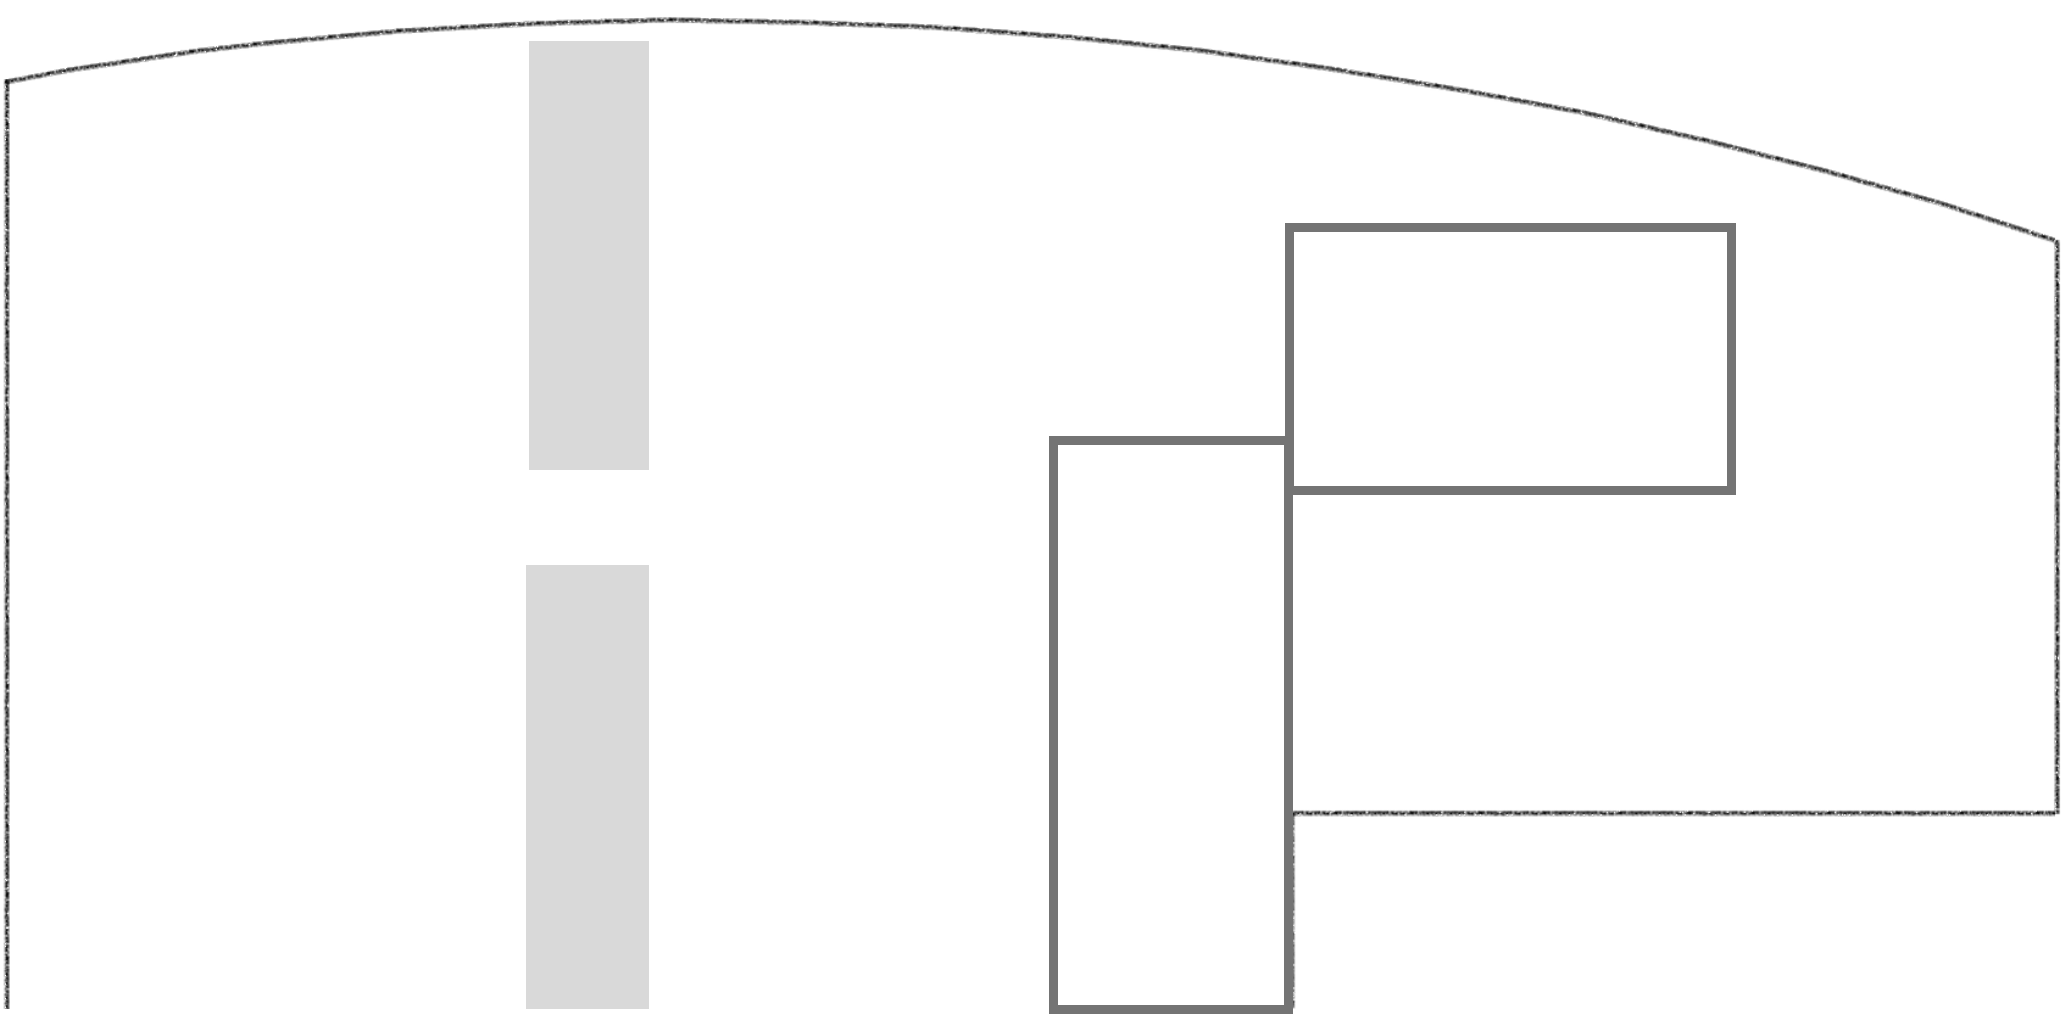
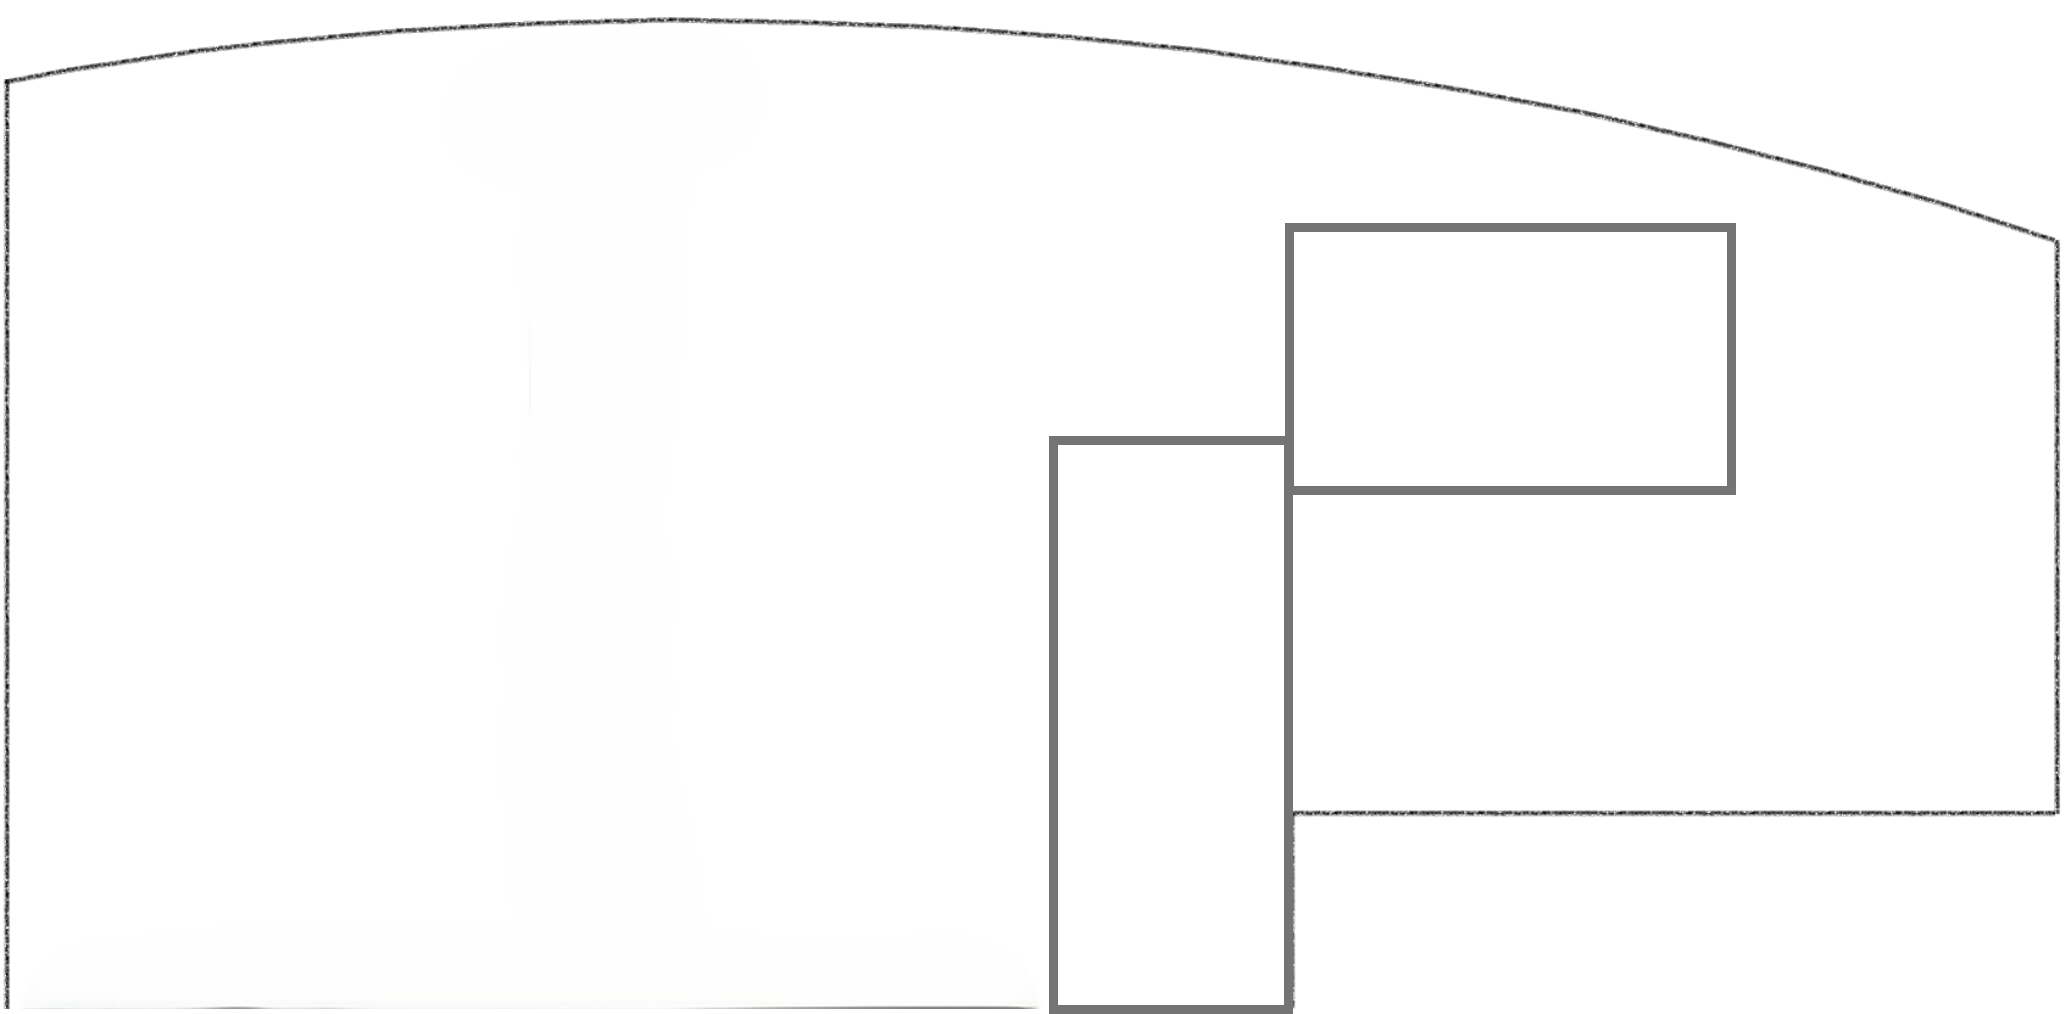
浜松フリー座席アップデート

Changed region(s): [[0.2472, 0.5503, 0.3399, 1.0], [0.2472, 0.0306, 0.3399, 0.4892], [0.3708, 0.9783, 0.4944, 1.0]]

diff --git a/work-app/src/App.js b/work-app/src/App.js
@@ -133,13 +133,18 @@ const FetchData = () => {
   const his_dialog = document.querySelector("#his_dialog");
   const singleClick = async (sect,n) => {
     try {
-      console.log("シングルクリック!",n,sect);
+      console.log("シングルクリック!",n,sect,kintaiData[n].name.DisplayName);
+      if (kintaiData[n].name === "None"){
+        console.log("無効カード")
+        return
+      }
       var purl = backendURL + "history";
       const response = await fetch(purl,{
         method: "POST",
         headers:{'Content-Type': 'application/json'},
         body: JSON.stringify({name: kintaiData[n].name.DisplayName,sect:sect})
       });
+      
       const data = await response.json();
       console.log(data)
       console.log(kintaiData[n].name.DisplayName)
@@ -290,10 +295,10 @@ const FetchData = () => {
               </SwiperSlide>
               <SwiperSlide>
                 <div className="kintaiCardHeaderContainer">
-                <h3 className="header">{team}課 (金沢・仙台)</h3>
+                <h3 className="header">{team}課 (金沢)</h3>
                 <h3 className="header">1係</h3>
                 <h3 className="header">2係</h3>
-                <h3 className="header">3係 (仙台)</h3>
+                <h3 className="header">3係</h3>
                 <h3 className="header">4係</h3>
                 <h3 className="header">5係</h3>
                 </div>
@@ -304,15 +309,16 @@ const FetchData = () => {
                 </div>
               </SwiperSlide>
               <SwiperSlide>
-                <div className="kintaiCardHeaderContainer">
+                <div className="kintaiCardHeaderContainerJ">
                 <h3 className="header">{team}課 (浜松)</h3>
                 <h3 className="header">1係</h3>
                 <h3 className="header">2係</h3>
                 <h3 className="header">3係</h3>
                 <h3 className="header">4係</h3>
                 <h3 className="header">5係</h3>
+                <h3 className="header">ITS事業推進室2課</h3>
                 </div>
-                <div className="kintaiCardContainer">
+                <div className="kintaiCardContainerJ">
                 {kintaiData.map((kintai,i) => {
                   return <button className="button"  onClick={() => onDClick("34",i)} key={i}><Card kintai={kintai} /> </button>;
                 })}
@@ -350,11 +356,11 @@ const FetchData = () => {
               </SwiperSlide>
               <SwiperSlide>
                 <div className="kintaiCardHeaderContainer">
-                <h3 className="header">{team}課 (仙台・金沢)</h3>
+                <h3 className="header">{team}課 (仙台)</h3>
                 <h3 className="header">1係</h3>
                 <h3 className="header">2係</h3>
                 <h3 className="header">3係</h3>
-                <h3 className="header">4係 (金沢)</h3>
+                <h3 className="header">4係</h3>
                 </div>
                 <div className="kintaiCardContainer">
                 {kintaiData.map((kintai,i) => {
@@ -366,6 +372,7 @@ const FetchData = () => {
                 <div className="kintaiCardHeaderContainer">
                 <h3 className="header">{team}課 (金沢・仙台)</h3>
                 <h3 className="header">1係</h3>
+                <h3 className="header">2係</h3>
                 </div>
                 <div className="kintaiCardContainer">
                 {kintaiData.map((kintai,i) => {

diff --git a/work-app/src/system.js b/work-app/src/system.js
@@ -114,7 +114,11 @@ const Sys_sol = () => {
   const his_dialog = document.querySelector("#his_dialog");
   const singleClick = async (sect,n) => {
     try {
-      console.log("シングルクリック!",n,sect);
+      console.log("シングルクリック!",n,sect,kintaiData[n].name.DisplayName);
+      if (kintaiData[n].name === "None"){
+        console.log("無効カード")
+        return
+      }
       var purl = backendURL + "history";
       const response = await fetch(purl,{
         method: "POST",
@@ -237,7 +241,6 @@ const Sys_sol = () => {
                 <h3 className="header">1係</h3>
                 <h3 className="header">2係</h3>
                 <h3 className="header">3係</h3>
-                <h3 className="header">4係</h3>
                 </div>
                 <div className="kintaiCardContainer">
                 {kintaiData.map((kintai,i) => {
@@ -252,6 +255,7 @@ const Sys_sol = () => {
                 <h3 className="header">2係 (金沢)</h3>
                 <h3 className="header">3係</h3>
                 <h3 className="header">4係</h3>
+                <h3 className="header">5係</h3>
                 </div>
                 <div className="kintaiCardContainer">
                 {kintaiData.map((kintai,i) => {
@@ -265,7 +269,7 @@ const Sys_sol = () => {
                 <h3 className="header">1係</h3>
                 <h3 className="header">2係</h3>
                 <h3 className="header">3係</h3>
-                <h3 className="header">4係</h3>
+                <h3 className="header">4係 (金沢)</h3>
                 <h3 className="header">5係 (浜松)</h3>
                 </div>
                 <div className="kintaiCardContainer">
@@ -281,7 +285,6 @@ const Sys_sol = () => {
                 <h3 className="header">2係 (金沢)</h3>
                 <h3 className="header">3係</h3>
                 <h3 className="header">4係</h3>
-                <h3 className="header">5係 (仙台)</h3>
                 </div>
                 <div className="kintaiCardContainer">
                 {kintaiData.map((kintai,i) => {

diff --git a/work-app/src/components/Card/Card.js b/work-app/src/components/Card/Card.js
@@ -78,11 +78,12 @@ const Card = ({kintai}) => {
       
       <h3 className={state === "年休" ? "cardState2":
                      ( main_state.indexOf('年休') !== -1)  ? "cardState2" : 
+                     ( l_state.indexOf('出張') !== -1)  ? "cardState1_3" : 
                     push_state === "on" ? "card_State1" :
                     l_state === "終了" ? "cardState1_2" :
                     l_state === "在宅" ? "cardState1_1" :
                      ( l_state.indexOf('退勤') !== -1)  ? "cardState1_2" : 
-                     ( l_state.indexOf('出張') !== -1)  ? "cardState1_3" : 
+                    
                      
                     "card_State1_1"}>{state}</h3>
       <h3 className={sub_state === "無" ? "cardState4": "cardState3"}>{sub_state}</h3>

diff --git a/work-app/src/musen.js b/work-app/src/musen.js
@@ -123,7 +123,11 @@ const Musen_sol = () => {
   const his_dialog = document.querySelector("#his_dialog");
   const singleClick = async (sect,n) => {
     try {
-      console.log("シングルクリック!",n,sect);
+      console.log("シングルクリック!",n,sect,kintaiData[n].name.DisplayName);
+      if (kintaiData[n].name === "None"){
+        console.log("無効カード")
+        return
+      }
       var purl = backendURL + "history";
       const response = await fetch(purl,{
         method: "POST",

diff --git a/work-app/src/App.css b/work-app/src/App.css
@@ -42,7 +42,7 @@
 }
 .kintaiCardHeaderContainerM {
   display: grid;
-  grid-template-columns: 1fr 1fr 1fr 1fr 1fr 1fr 1fr;
+  grid-template-columns: 1fr 1fr 1fr 1fr 1fr 1fr 1fr 1fr;
   place-items: center;
   gap: 5px;
   margin-top: 5px;
@@ -50,7 +50,7 @@
 
 .kintaiCardContainerM {
   display: grid;
-  grid-template-columns: 1fr 1fr 1fr 1fr 1fr 1fr 1fr;
+  grid-template-columns: 1fr 1fr 1fr 1fr 1fr 1fr 1fr 1fr;
   grid-auto-flow: column;
   grid-template-rows: repeat(7, auto);
   place-items: center;

diff --git a/work-app/src/components/Seat/Seat.js b/work-app/src/components/Seat/Seat.js
@@ -39,7 +39,9 @@ const Seat = ({seat}) => {
           ( state.indexOf('出張') !== -1)  ? "cardState1_3" :
           ( state.indexOf('出社') !== -1)  ? "cardState1" :
            "seatTime"}>{state}</h3>
-          <h2 className={substate !== "-" ? "seatTime2" : "seatTime"}>{substate}</h2>
+          <h2 className={(substate.indexOf('内線') !== -1) ? "cardState1_4" :
+          substate !== "-" ? "seatTime2" :
+          "seatTime"}>{substate}</h2>
         </div>
       )
 };

diff --git a/work-app/src/components/Seat/Seat.css b/work-app/src/components/Seat/Seat.css
@@ -109,11 +109,21 @@
   margin-bottom: 0px;
   margin-top: 0;
 }
+
 .cardState1_3 {
   padding: 0;
   font-size: 12px;
   color: white;
   background-color: rgb(8, 162, 228);
+  margin-bottom: 0px;
+  margin-top: 0;
+}
+
+.cardState1_4 {
+  padding: 0;
+  font-size: 14px;
+  color: black;
+  background-color: rgb(125, 239, 53);
   margin-bottom: 0px;
   margin-top: 0;
 }
